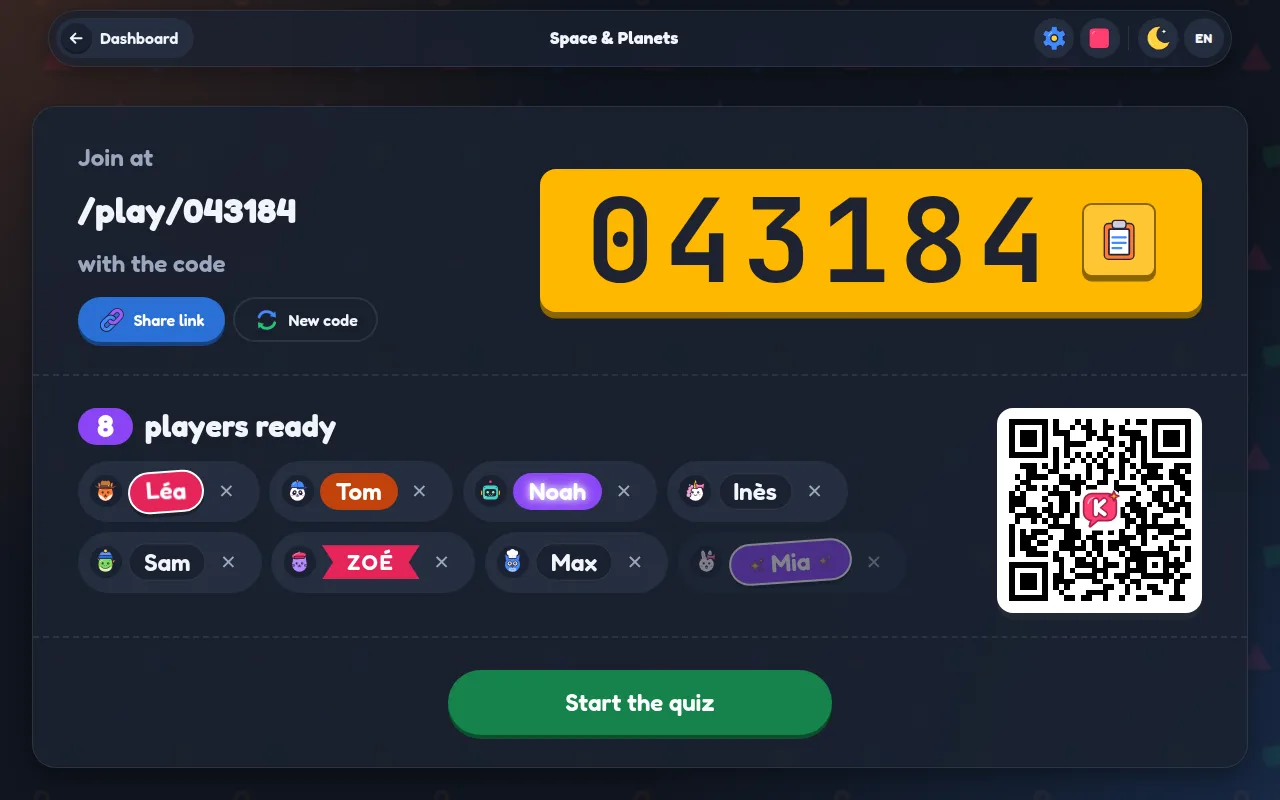
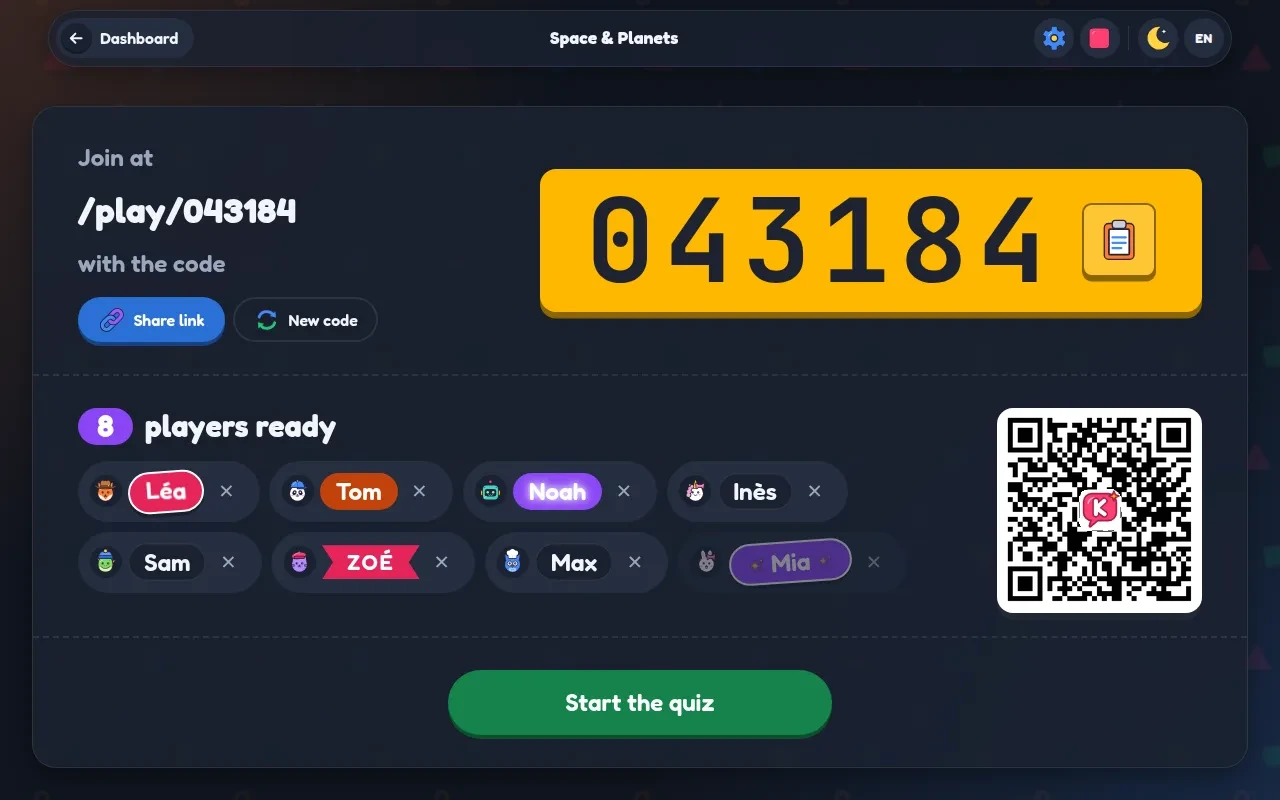
💄 Update landing page screen

Changed region(s): [[0.7812, 0.5, 0.9375, 0.75]]

diff --git a/CHANGELOG.fr.md b/CHANGELOG.fr.md
@@ -1,5 +1,8 @@
 # Journal des modifications
 
+## 0.7.1 - 2026-11-26
+- [style] Nouvelle capture de la salle d'attente sur la page d'accueil
+
 ## 0.7.0 - 2026-11-24
 - [feat] Confirmation de l'e-mail optionnelle pour les inscriptions par mot de passe
 - [feat] Les parties sont limitées à 30 joueurs avec l'offre gratuite

diff --git a/CHANGELOG.md b/CHANGELOG.md
@@ -1,5 +1,8 @@
 # Changelog
 
+## 0.7.1 - 2026-11-26
+- [style] New waiting room screenshot on the home page
+
 ## 0.7.0 - 2026-11-24
 - [feat] Optional email confirmation for password sign-ups
 - [feat] Games are capped at 30 players on the free plan
